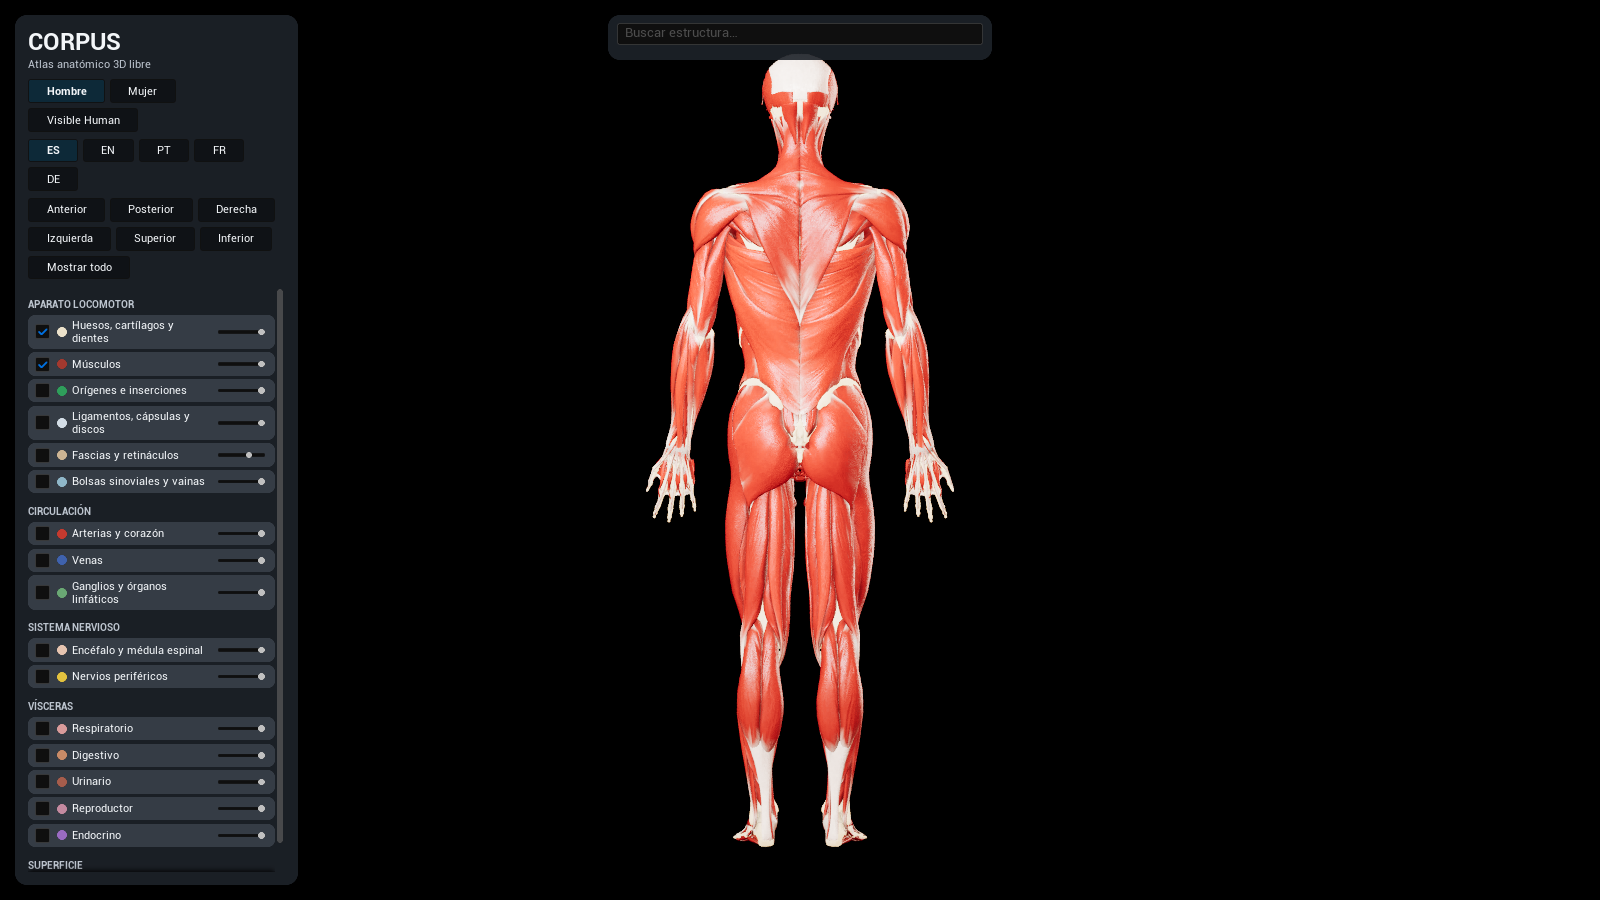
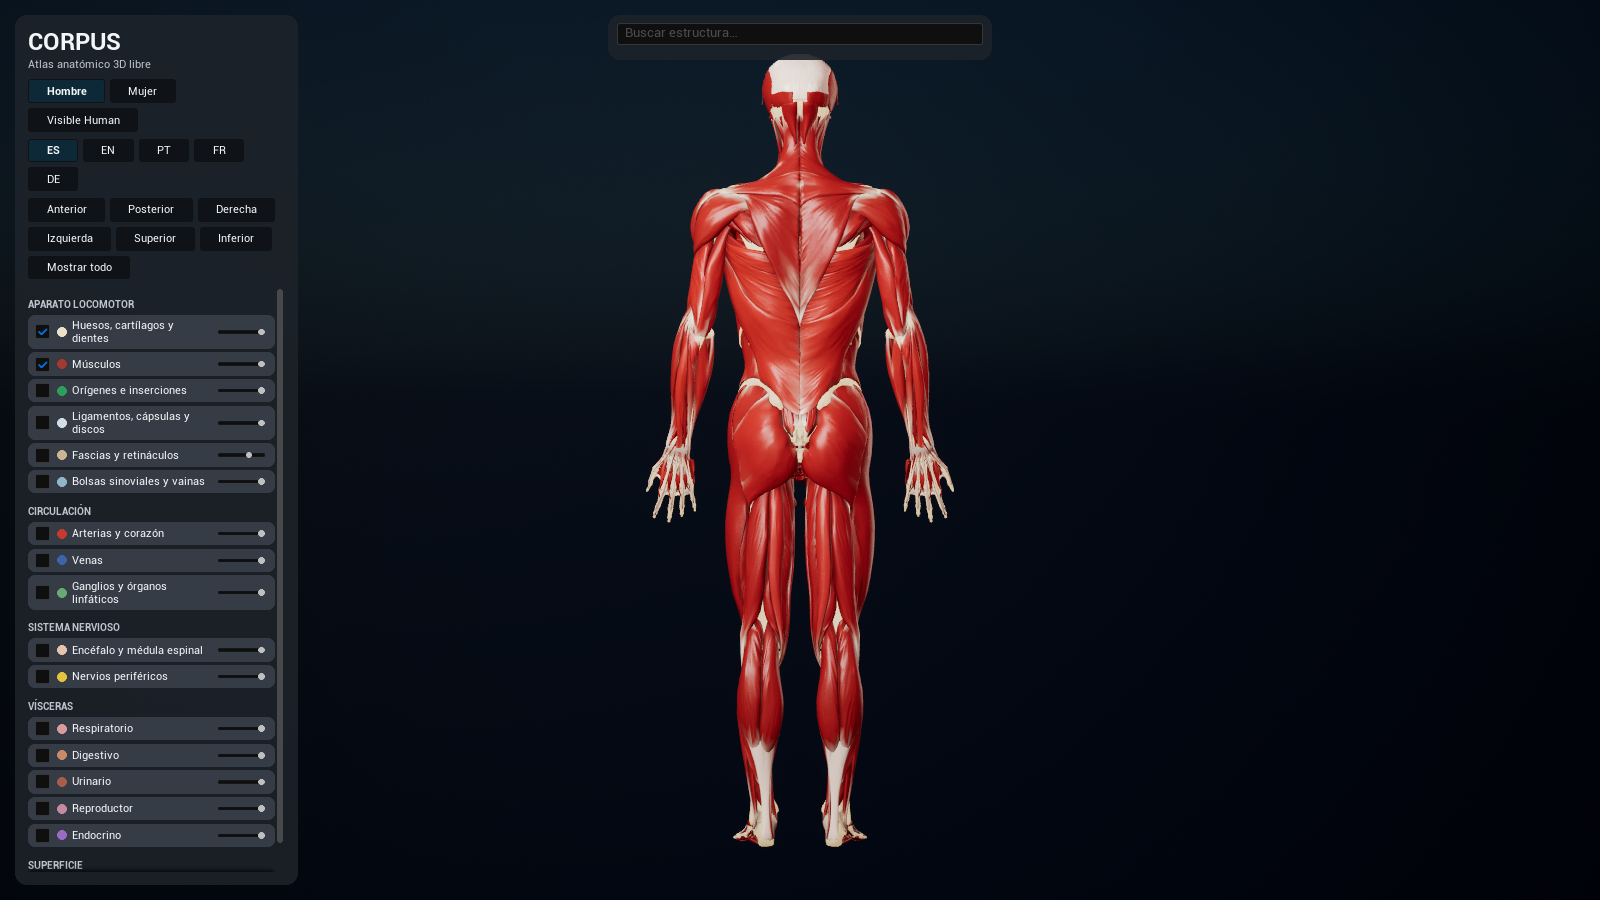
Unreal: pendientes de la Fase 1 (piel VH, traducciones, luz del hueso, muaré)
- Piel del Visible Human: Interchange llamaba «f_piel» a la única malla del
  archivo; _aplanar(destino, ids) le pone su id (f0) y ya se ve.
- Traducciones: el lector JSON de Unreal no distingue mayúsculas
  («urinario»→«digestivo» en i18n_de tapaba «Urinario»). T() usa claves
  exactas en el orden de trW() de la web, más una tabla propia para capas
  de vísceras, vistas, subtítulo, buscador y campos de la ficha.
- Luces: el sol (6 lux) no aportaba y las rectangulares quemaban el hueso.
  Tabla LUCES (sol 200, relleno 2000, contraluz 6000, cielo 1) y
  ajustar_luces(); captura.ps1 -Py para probar valores.
- Muaré: las estrías se apagan según los ciclos por píxel (ddx/ddy).
- Buscador: orígenes e inserciones al final de la lista.
- 12 capturas rehechas; LEEME al día.

diff --git a/unreal/CorpusAtlas/Content/Python/corpus_importar.py b/unreal/CorpusAtlas/Content/Python/corpus_importar.py
@@ -107,6 +107,10 @@ class _G:
         self.une(a, e, "A"); self.une(b, e, "B")
         return e
 
+    def un(self, clase, a, x=-400):
+        """Nodo de una sola entrada (Abs, Saturate, DDX…): su entrada no tiene nombre en 5.8."""
+        e = self.n(clase, x); self.une(a, e, ""); return e
+
     def mul(self, a, b): return self.op(unreal.MaterialExpressionMultiply, a, b)
     def add(self, a, b): return self.op(unreal.MaterialExpressionAdd, a, b)
 
@@ -168,7 +172,13 @@ def _maestro(nombre, translucido):
     s1 = g.n(unreal.MaterialExpressionSine, -400, period=1.0); g.une(fase, s1, "")
     f2 = g.mul(fase, g.cte(2.3))                                 # 3.7 producía muaré al acercarse
     s2 = g.n(unreal.MaterialExpressionSine, -400, period=1.0); g.une(f2, s2, "")
-    onda = g.add(s1, g.mul(s2, g.cte(0.35)))                     # fascículos gruesos + fibras finas
+    # Antimuaré: ciclos de estría por píxel (|ddx| + |ddy| de la fase). Cada escala se apaga entre 0,25 y 0,5 ciclos
+    # por píxel, antes de que el muestreo la convierta en franjas (a cuerpo entero hay >1 ciclo por píxel).
+    cpp = g.add(g.un(unreal.MaterialExpressionAbs, g.un(unreal.MaterialExpressionDDX, fase)),
+                g.un(unreal.MaterialExpressionAbs, g.un(unreal.MaterialExpressionDDY, fase)))
+    v1 = g.un(unreal.MaterialExpressionSaturate, g.add(g.cte(2.0), g.mul(cpp, g.cte(-4.0))))
+    v2 = g.un(unreal.MaterialExpressionSaturate, g.add(g.cte(2.0), g.mul(cpp, g.cte(-9.2))))
+    onda = g.add(g.mul(s1, v1), g.mul(g.mul(s2, v2), g.cte(0.35)))   # fascículos gruesos + fibras finas
 
     # Grano fino (poro del hueso, irregularidad del tejido): ruido 3D barato
     ruido = g.n(unreal.MaterialExpressionNoise, -400, scale=6.0, levels=2, output_min=-1.0, output_max=1.0)
@@ -208,7 +218,7 @@ def _maestro(nombre, translucido):
 
     # Relieve en espacio tangente: X = fibra, Y = a través. La pendiente de la onda inclina la normal en Y.
     c1 = g.n(unreal.MaterialExpressionCosine, -400, period=1.0); g.une(fase, c1, "")
-    pend = g.mul(g.mul(c1, fuerza), g.cte(0.22))                 # relieve suave: con 0.45 las estrías brillaban como rayas
+    pend = g.mul(g.mul(g.mul(c1, v1), fuerza), g.cte(0.22))                # relieve suave: con 0.45 las estrías brillaban como rayas
     pend = g.add(pend, g.mul(grano, g.cte(0.6)))
     normal = g.n(unreal.MaterialExpressionAppendVector, -300)
     xy = g.n(unreal.MaterialExpressionAppendVector, -350); g.une(g.mul(grano, g.cte(0.4)), xy, "A"); g.une(pend, xy, "B")
@@ -294,16 +304,31 @@ def _ajustar(malla, con_fibra):
         pass
 
 
-def _aplanar(destino):
-    """Interchange (UE 5.x) deja cada malla en <destino>/<archivo>/StaticMeshes/<id>; el C++ la busca en <destino>/<id>."""
+def _ids_capa(man, archivo):
+    """Ids de las piezas que el manifiesto pone en ese cuerpo y esa capa."""
+    c, s = archivo["cuerpo"], archivo["sistema"]
+    return [i for i, b in man["piezas"].items() if c in b and b[c].get("s") == s]
+
+
+def _aplanar(destino, ids=None):
+    """Interchange (UE 5.x) deja cada malla en <destino>/<archivo>/StaticMeshes/<id>; el C++ la busca en <destino>/<id>.
+    Con un archivo de una sola malla, Interchange la llama como el archivo (vh/f_piel → «f_piel» en vez de «f0»):
+    si se pasan los ids de la capa, la malla que no coincide con ninguno toma el único id que falta."""
     movidas = 0
+    ids = set(ids or [])
     for ruta in eal.list_assets(destino, recursive=True, include_folder=False):
         obj = eal.find_asset_data(ruta)
-        carpeta = str(obj.package_path)
-        if carpeta == destino:
+        if obj.asset_class_path.asset_name != "StaticMesh":
             continue
+        carpeta = str(obj.package_path)
         nombre = str(obj.asset_name)
-        if obj.asset_class_path.asset_name == "StaticMesh" and not eal.does_asset_exist("%s/%s" % (destino, nombre)):
+        if ids and nombre not in ids:
+            faltan = [i for i in ids if not eal.does_asset_exist("%s/%s" % (destino, i))]
+            if len(faltan) == 1:
+                nombre = faltan[0]
+        if carpeta == destino and nombre == str(obj.asset_name):
+            continue
+        if not eal.does_asset_exist("%s/%s" % (destino, nombre)):
             if eal.rename_asset(ruta.split(".")[0], "%s/%s" % (destino, nombre)):
                 movidas += 1
     for sub in eal.list_assets(destino, recursive=False, include_folder=True):
@@ -317,7 +342,7 @@ def aplanar_mallas():
     man = json.load(open(os.path.join(IMPORTAR, "manifiesto.json"), encoding="utf-8"))
     for a in man["archivos"]:
         destino = "%s/%s/%s" % (R_MALLAS, a["cuerpo"], a["sistema"])
-        n = _aplanar(destino)
+        n = _aplanar(destino, _ids_capa(man, a))
         unreal.log("Corpus: %s → %d mallas movidas a %s" % (a["archivo"], n, destino))
 
 
@@ -382,7 +407,7 @@ def importar_mallas(solo=None):
             t.set_editor_property("save", False)
             t.set_editor_property("options", _opciones_interchange())
             herr.import_asset_tasks([t])
-            _aplanar(destino)
+            _aplanar(destino, _ids_capa(man, a))
             con_fibra = a["base"] in FIBRA
             mi = eal.load_asset("%s/MI_%s" % (R_MAT, a["base"] if a["base"] in TEJIDOS else "digestivo"))
             n = 0
@@ -402,6 +427,10 @@ def importar_mallas(solo=None):
 # ───────────────────────── mapa ─────────────────────────
 # Compensación de exposición manual (pasos sobre la cámara física por defecto, EV100 ≈ 10).
 # 10.5 dejaba la imagen blanca: las luces del estudio dan ~1.000 lux, que piden EV ≈ 9.
+# Intensidades del estudio: sol en lux, rectangulares en candelas, cielo multiplicador. Con sol=6 el sol no aportaba
+# nada y las dos rectangulares (9000 / 14000) quemaban solas el hueso, sin sombreado (capturas de prueba 2026-11-20).
+# Ahora el sol es la luz principal y da el relieve; relleno y contraluz quedan suaves.
+LUCES = dict(sol=200.0, relleno=2000.0, contra=6000.0, cielo=1.0)
 EXPOSICION = 2.0   # comprobado en capturas: 1 queda oscuro, 4 quema los tendones, 2.5 aún satura el hueso
 
 
@@ -416,6 +445,19 @@ def ajustar_exposicion(valor=None):
             aj.set_editor_property("override_bloom_intensity", True)
             aj.set_editor_property("bloom_intensity", 0.08)
             a.set_editor_property("settings", aj)
+    unreal.get_editor_subsystem(unreal.LevelEditorSubsystem).save_current_level()
+
+
+def ajustar_luces(**cambios):
+    """Cambia la intensidad de las luces del mapa abierto (claves de LUCES) y lo guarda. Ej.: ajustar_luces(sol=40, relleno=2000)."""
+    LUCES.update(cambios)
+    etiquetas = {"Luz principal": ("sol", unreal.DirectionalLightComponent), "Luz de relleno": ("relleno", unreal.RectLightComponent),
+                 "Contraluz": ("contra", unreal.RectLightComponent), "Luz de cielo": ("cielo", unreal.SkyLightComponent)}
+    actores = unreal.get_editor_subsystem(unreal.EditorActorSubsystem)
+    for a in actores.get_all_level_actors():
+        e = etiquetas.get(a.get_actor_label())
+        if e:
+            a.get_component_by_class(e[1]).set_editor_property("intensity", float(LUCES[e[0]]))
     unreal.get_editor_subsystem(unreal.LevelEditorSubsystem).save_current_level()
 
 
@@ -435,22 +477,22 @@ def crear_mapa():
     # El cuerpo mira hacia +Y y mide ~175 cm de alto. Rotator(roll, pitch, yaw).
     clave = pon(unreal.DirectionalLight, rot=(0, -38, -125), nombre="Luz principal")
     c = clave.get_component_by_class(unreal.DirectionalLightComponent)
-    c.set_editor_property("intensity", 6.0); c.set_editor_property("light_color", unreal.Color(255, 244, 230))
+    c.set_editor_property("intensity", float(LUCES["sol"])); c.set_editor_property("light_color", unreal.Color(255, 244, 230))
     c.set_editor_property("light_source_angle", 3.0)    # sombras suaves de estudio
 
     relleno = pon(unreal.RectLight, pos=(-260, 240, 150), rot=(0, -8, -45), nombre="Luz de relleno")
     r = relleno.get_component_by_class(unreal.RectLightComponent)
-    r.set_editor_property("intensity", 9000.0); r.set_editor_property("source_width", 260.0); r.set_editor_property("source_height", 320.0)
+    r.set_editor_property("intensity", float(LUCES["relleno"])); r.set_editor_property("source_width", 260.0); r.set_editor_property("source_height", 320.0)
     r.set_editor_property("light_color", unreal.Color(214, 228, 255)); r.set_editor_property("attenuation_radius", 1200.0)
 
     contra = pon(unreal.RectLight, pos=(120, -280, 230), rot=(0, -25, 110), nombre="Contraluz")
     k = contra.get_component_by_class(unreal.RectLightComponent)
-    k.set_editor_property("intensity", 14000.0); k.set_editor_property("source_width", 200.0); k.set_editor_property("source_height", 200.0)
+    k.set_editor_property("intensity", float(LUCES["contra"])); k.set_editor_property("source_width", 200.0); k.set_editor_property("source_height", 200.0)
     k.set_editor_property("attenuation_radius", 1200.0)   # perfila el contorno de músculos y huesos
 
     cielo = pon(unreal.SkyLight, nombre="Luz de cielo")
     s = cielo.get_component_by_class(unreal.SkyLightComponent)
-    s.set_editor_property("real_time_capture", True); s.set_editor_property("intensity", 0.6)
+    s.set_editor_property("real_time_capture", True); s.set_editor_property("intensity", float(LUCES["cielo"]))
     pon(unreal.SkyAtmosphere, nombre="Atmósfera")
     pon(unreal.ExponentialHeightFog, pos=(0, 0, -50), nombre="Niebla")
 

diff --git a/unreal/CorpusAtlas/Source/CorpusAtlas/CorpusDatos.cpp b/unreal/CorpusAtlas/Source/CorpusAtlas/CorpusDatos.cpp
@@ -163,10 +163,61 @@ const FCorpusCapa* UCorpusDatos::Capa(const FString& Clave) const
 	return ListaCapas.FindByPredicate([&](const FCorpusCapa& C) { return C.Clave == Clave; });
 }
 
+namespace
+{
+	// El lector JSON de Unreal guarda las claves sin distinguir mayúsculas; aquí se leen tal cual vienen en el archivo.
+	void Volcar(const TSharedPtr<FJsonObject>& O, FTablaTr& T, bool bPisar)
+	{
+		if (!O.IsValid()) { return; }
+		for (const auto& Par : O->Values)
+		{
+			FString S;
+			if (!Par.Value.IsValid() || !Par.Value->TryGetString(S) || S.IsEmpty()) { continue; }
+			const FString K(Par.Key);
+			if (bPisar || !T.Contains(K)) { T.Add(K, S); }
+		}
+	}
+
+	// Textos propios de esta edición que no están en los JSON de la web: es → en, pt, fr, de.
+	struct FTrPropia { const TCHAR* Es; const TCHAR* L[4]; };
+	const FTrPropia TR_PROPIA[] = {
+		{TEXT("Respiratorio"), {TEXT("Respiratory"), TEXT("Respiratório"), TEXT("Respiratoire"), TEXT("Atmungssystem")}},
+		{TEXT("Digestivo"), {TEXT("Digestive"), TEXT("Digestório"), TEXT("Digestif"), TEXT("Verdauungssystem")}},
+		{TEXT("Urinario"), {TEXT("Urinary"), TEXT("Urinário"), TEXT("Urinaire"), TEXT("Harnsystem")}},
+		{TEXT("Reproductor"), {TEXT("Reproductive"), TEXT("Reprodutor"), TEXT("Reproducteur"), TEXT("Geschlechtsorgane")}},
+		{TEXT("Endocrino"), {TEXT("Endocrine"), TEXT("Endócrino"), TEXT("Endocrinien"), TEXT("Endokrines System")}},
+		{TEXT("Ojos"), {TEXT("Eyes"), TEXT("Olhos"), TEXT("Yeux"), TEXT("Augen")}},
+		{TEXT("Derecha"), {TEXT("Right"), TEXT("Direita"), TEXT("Droite"), TEXT("Rechts")}},
+		{TEXT("Izquierda"), {TEXT("Left"), TEXT("Esquerda"), TEXT("Gauche"), TEXT("Links")}},
+		{TEXT("izquierdo"), {TEXT("left"), TEXT("esquerdo"), TEXT("gauche"), TEXT("links")}},
+		{TEXT("Mostrar todo"), {TEXT("Show all"), TEXT("Mostrar tudo"), TEXT("Tout afficher"), TEXT("Alles zeigen")}},
+		{TEXT("Encuadrar"), {TEXT("Frame"), TEXT("Enquadrar"), TEXT("Cadrer"), TEXT("Einpassen")}},
+		{TEXT("Buscar estructura…"), {TEXT("Search structure…"), TEXT("Buscar estrutura…"), TEXT("Rechercher une structure…"), TEXT("Struktur suchen…")}},
+		{TEXT("Atlas anatómico 3D libre"), {TEXT("Free 3D anatomy atlas"), TEXT("Atlas anatômico 3D livre"), TEXT("Atlas d'anatomie 3D libre"), TEXT("Freier 3D-Anatomieatlas")}},
+		{TEXT("Sin resultados"), {TEXT("No results"), TEXT("Sem resultados"), TEXT("Aucun résultat"), TEXT("Keine Ergebnisse")}},
+		{TEXT("Descripción"), {TEXT("Description"), TEXT("Descrição"), TEXT("Description"), TEXT("Beschreibung")}},
+		{TEXT("Une"), {TEXT("Connects"), TEXT("Une"), TEXT("Relie"), TEXT("Verbindet")}},
+		{TEXT("Destino"), {TEXT("Destination"), TEXT("Destino"), TEXT("Destination"), TEXT("Ziel")}},
+		{TEXT("Ramas"), {TEXT("Branches"), TEXT("Ramos"), TEXT("Branches"), TEXT("Äste")}},
+		{TEXT("Territorio"), {TEXT("Territory"), TEXT("Território"), TEXT("Territoire"), TEXT("Versorgungsgebiet")}},
+		{TEXT("Clínica"), {TEXT("Clinical notes"), TEXT("Clínica"), TEXT("Clinique"), TEXT("Klinik")}},
+		{TEXT("Relaciones"), {TEXT("Relations"), TEXT("Relações"), TEXT("Rapports"), TEXT("Lagebeziehungen")}},
+	};
+
+	bool BuscarPropia(const FString& Idioma, const FString& Es, FString& Fuera)
+	{
+		static const TArray<FString> Orden = { TEXT("en"), TEXT("pt"), TEXT("fr"), TEXT("de") };
+		const int32 i = Orden.IndexOfByKey(Idioma);
+		if (i == INDEX_NONE) { return false; }
+		for (const FTrPropia& P : TR_PROPIA) { if (Es.Equals(P.Es, ESearchCase::CaseSensitive)) { Fuera = P.L[i]; return true; } }
+		return false;
+	}
+}
+
 void UCorpusDatos::CargarIdioma(const FString& Codigo)
 {
 	if (Codigo == TEXT("es") || UiTr.Contains(Codigo)) { return; }
-	TSharedPtr<FJsonObject> Ui = MakeShared<FJsonObject>(), Nombres = MakeShared<FJsonObject>();
+	FTablaTr Ui, Nombres;
 	const TSharedPtr<FJsonObject>* O = nullptr;
 	if (Codigo == TEXT("en") || Codigo == TEXT("pt"))
 	{
@@ -174,23 +225,22 @@ void UCorpusDatos::CargarIdioma(const FString& Codigo)
 		if (const TSharedPtr<FJsonObject> J = LeerObjeto(TEXT("i18n.json")))
 		{
 			const TSharedPtr<FJsonObject>* UiJ = nullptr;
-			if (J->TryGetObjectField(TEXT("ui"), UiJ) && (*UiJ)->TryGetObjectField(Codigo, O)) { Ui = *O; }
-			if (Codigo == TEXT("pt") && J->TryGetObjectField(TEXT("names"), O)) { Nombres = *O; }
+			if (J->TryGetObjectField(TEXT("ui"), UiJ) && (*UiJ)->TryGetObjectField(Codigo, O)) { Volcar(*O, Ui, true); UiAprox.Add(Codigo, *O); }
+			if (Codigo == TEXT("pt") && J->TryGetObjectField(TEXT("names"), O)) { Volcar(*O, Nombres, true); }
 		}
 	}
 	else if (const TSharedPtr<FJsonObject> J = LeerObjeto(FString::Printf(TEXT("i18n_%s.json"), *Codigo)))
 	{
-		if (J->TryGetObjectField(TEXT("ui"), O)) { Ui = *O; }
-		if (J->TryGetObjectField(TEXT("names"), O)) { Nombres = *O; }
+		if (J->TryGetObjectField(TEXT("ui"), O)) { Volcar(*O, Ui, true); UiAprox.Add(Codigo, *O); }
+		if (J->TryGetObjectField(TEXT("names"), O)) { Volcar(*O, Nombres, true); }
 		// content_fr/de: textos largos (español → traducción); no pisan la interfaz
-		if (const TSharedPtr<FJsonObject> Cont = LeerObjeto(FString::Printf(TEXT("content_%s.json"), *Codigo)))
-		{
-			for (const auto& Par : Cont->Values) { if (!Ui->HasField(Par.Key)) { Ui->SetField(Par.Key, Par.Value); } }
-		}
+		Volcar(LeerObjeto(FString::Printf(TEXT("content_%s.json"), *Codigo)), Ui, false);
 	}
-	UiTr.Add(Codigo, Ui);
-	NombresTr.Add(Codigo, Nombres);
+	UiTr.Add(Codigo, MoveTemp(Ui));
+	NombresTr.Add(Codigo, MoveTemp(Nombres));
 	if (const TSharedPtr<FJsonObject> Info = LeerObjeto(FString::Printf(TEXT("info_%s.json"), *Codigo))) { InfoTr.Add(Codigo, Info); }
+	// francés y alemán caen en inglés si falta el texto
+	if (Codigo == TEXT("fr") || Codigo == TEXT("de")) { CargarIdioma(TEXT("en")); }
 }
 
 void UCorpusDatos::PonerIdioma(const FString& Codigo)
@@ -204,16 +254,17 @@ void UCorpusDatos::PonerIdioma(const FString& Codigo)
 
 FString UCorpusDatos::T(const FString& Es) const
 {
-	if (IdiomaActual != TEXT("es"))
-	{
-		FString Tr;
-		if (const TSharedPtr<FJsonObject>* Ui = UiTr.Find(IdiomaActual)) { if ((*Ui)->TryGetStringField(Es, Tr) && !Tr.IsEmpty()) { return Tr; } }
-		// francés y alemán caen en inglés si falta el texto (igual que la web)
-		if (IdiomaActual == TEXT("fr") || IdiomaActual == TEXT("de"))
-		{
-			if (const TSharedPtr<FJsonObject>* En = UiTr.Find(TEXT("en"))) { if ((*En)->TryGetStringField(Es, Tr) && !Tr.IsEmpty()) { return Tr; } }
-		}
-	}
+	if (IdiomaActual == TEXT("es")) { return Es; }
+	// Mismo orden que trW() en la web: interfaz → (fr/de) nombres → textos propios → (fr/de) inglés.
+	// Antes del inglés, la interfaz sin distinguir mayúsculas: el lector JSON de Unreal funde «Hombre» y «hombre»
+	// en una sola clave (la última), así que la búsqueda exacta puede no encontrar «Hombre».
+	const bool bFrDe = IdiomaActual == TEXT("fr") || IdiomaActual == TEXT("de");
+	if (const FTablaTr* Ui = UiTr.Find(IdiomaActual)) { if (const FString* S = Ui->Find(Es)) { return *S; } }
+	if (bFrDe) { if (const FTablaTr* N = NombresTr.Find(IdiomaActual)) { if (const FString* S = N->Find(Es)) { return *S; } } }
+	FString Tr;
+	if (BuscarPropia(IdiomaActual, Es, Tr)) { return Tr; }
+	if (const TSharedPtr<FJsonObject>* A = UiAprox.Find(IdiomaActual)) { if ((*A)->TryGetStringField(Es, Tr) && !Tr.IsEmpty()) { return Tr; } }
+	if (bFrDe) { if (const FTablaTr* En = UiTr.Find(TEXT("en"))) { if (const FString* S = En->Find(Es)) { return *S; } } }
 	return Es;
 }
 
@@ -223,8 +274,7 @@ FString UCorpusDatos::NombrePieza(const FString& Id) const
 	if (!P) { return Id; }
 	if (IdiomaActual == TEXT("es")) { return P->Es; }
 	if (IdiomaActual == TEXT("en")) { return P->En; }
-	FString Tr;
-	if (const TSharedPtr<FJsonObject>* N = NombresTr.Find(IdiomaActual)) { if ((*N)->TryGetStringField(P->Es, Tr) && !Tr.IsEmpty()) { return Tr; } }
+	if (const FTablaTr* N = NombresTr.Find(IdiomaActual)) { if (const FString* S = N->Find(P->Es)) { return *S; } }
 	return IdiomaActual == TEXT("pt") ? P->Es : P->En;
 }
 
@@ -290,7 +340,9 @@ FString UCorpusDatos::Plano(const FString& S)
 
 TArray<FString> UCorpusDatos::Buscar(const FString& Texto, int32 Maximo) const
 {
-	TArray<FString> Empiezan, Contienen;
+	// Orden: empieza por el texto → lo contiene → orígenes e inserciones (llevan el mismo nombre que el músculo
+	// y antes tapaban al propio músculo en la lista)
+	TArray<FString> Empiezan, Contienen, Inserciones;
 	const FString Q = Plano(Texto.TrimStartAndEnd());
 	if (Q.Len() < 2) { return Empiezan; }
 	for (const auto& Par : Piezas)
@@ -298,11 +350,12 @@ TArray<FString> UCorpusDatos::Buscar(const FString& Texto, int32 Maximo) const
 		const FCorpusPieza& P = Par.Value;
 		if (P.Mallas.Num() == 0) { continue; }
 		const FString N = Plano(NombrePieza(P.Id));
-		if (N.StartsWith(Q)) { Empiezan.Add(P.Id); }
-		else if (N.Contains(Q) || Plano(P.Es).Contains(Q) || Plano(P.En).Contains(Q) || Plano(P.La).Contains(Q)) { Contienen.Add(P.Id); }
-		if (Empiezan.Num() >= Maximo) { break; }
+		const bool bEmpieza = N.StartsWith(Q);
+		if (!bEmpieza && !(N.Contains(Q) || Plano(P.Es).Contains(Q) || Plano(P.En).Contains(Q) || Plano(P.La).Contains(Q))) { continue; }
+		(P.Sistema == TEXT("insercion") ? Inserciones : bEmpieza ? Empiezan : Contienen).Add(P.Id);
 	}
 	Empiezan.Append(Contienen);
+	Empiezan.Append(Inserciones);
 	if (Empiezan.Num() > Maximo) { Empiezan.SetNum(Maximo); }
 	return Empiezan;
 }

diff --git a/unreal/CorpusAtlas/Source/CorpusAtlas/CorpusDatos.h b/unreal/CorpusAtlas/Source/CorpusAtlas/CorpusDatos.h
@@ -50,6 +50,14 @@ struct FCorpusCapa
 	UPROPERTY(BlueprintReadOnly, Category = "Corpus") FString Base;
 };
 
+/** Claves que distinguen mayúsculas (como los objetos de JavaScript): en i18n_de, «urinario» y «Urinario» son textos distintos. */
+struct FClaveExacta : TDefaultMapKeyFuncs<FString, FString, false>
+{
+	static FORCEINLINE bool Matches(const FString& A, const FString& B) { return A.Equals(B, ESearchCase::CaseSensitive); }
+	static FORCEINLINE uint32 GetKeyHash(const FString& K) { return GetTypeHash(K); }
+};
+using FTablaTr = TMap<FString, FString, FDefaultSetAllocator, FClaveExacta>;
+
 UCLASS()
 class CORPUSATLAS_API UCorpusDatos : public UGameInstanceSubsystem
 {
@@ -99,5 +107,6 @@ private:
 
 	TSharedPtr<FJsonObject> InfoEs;                       // info.json: tipo → nombre inglés → ficha
 	TMap<FString, TSharedPtr<FJsonObject>> InfoTr;       // info_en/pt/fr/de: «tipo|nombre» → ficha
-	TMap<FString, TSharedPtr<FJsonObject>> UiTr, NombresTr; // por idioma: texto español → traducción
+	TMap<FString, FTablaTr> UiTr, NombresTr;              // por idioma: texto español → traducción
+	TMap<FString, TSharedPtr<FJsonObject>> UiAprox;       // el «ui» tal cual lo lee Unreal (sin distinguir mayúsculas): último recurso
 };

diff --git a/unreal/LEEME.md b/unreal/LEEME.md
@@ -60,19 +60,31 @@ todo sale gris), ejecuta los pasos y cierra. Desde PowerShell:
 ```
 .\unreal\captura.ps1 -Pasos "esperar 8; foto inicio; sel n1394; encuadrar; foto ficha; buscar biceps; foto buscador"
 .\unreal\captura.ps1 -Exposicion 2.0 -Pasos "foto expo"
+.\unreal\captura.ps1 -Py "ci.ajustar_luces(sol=200, relleno=2000)" -Pasos "foto luces"
 ```
 Pasos: `foto <nombre>` · `sel <id>` (vacío = ninguna) · `encuadrar` · `aislar` · `ocultar` · `todo` · `vista <0-5>` ·
 `capa <clave> <0|1>` · `opacidad <clave> <valor>` · `cuerpo <hombre|mujer|vh>` · `idioma <es|en|pt|fr|de>` ·
 `buscar <texto>` · `esperar <s>` · cualquier otro texto se ejecuta como comando de consola (p. ej. `viewmode unlit`).
 Las fotos quedan en `unreal/capturas/` con la interfaz incluida.
 
+### Pendientes de la Fase 1 resueltos (2026-11-20)
+- **Piel del Visible Human:** el GLB `vh/f_piel` tiene una sola malla e Interchange la llamaba como el archivo (`f_piel`) en vez de
+  con su id (`f0`), así que el C++ no la encontraba. `_aplanar(destino, ids)` renombra la malla que no coincide con ningún id de la capa.
+- **Traducciones:** el lector JSON de Unreal no distingue mayúsculas en las claves; en `i18n_de.json` hay `"urinario": "digestivo"`,
+  por eso «Urinario» salía como «digestivo», y «Hombre»/«hombre» se fundían. `T()` busca ahora como `trW()` de la web, con claves exactas
+  (`FTablaTr`): interfaz → nombres (fr/de) → tabla propia `TR_PROPIA` (capas de vísceras, vistas, subtítulo, buscador, campos de la ficha)
+  → interfaz sin distinguir mayúsculas → inglés.
+- **Hueso quemado:** con el sol a 6 lux solo iluminaban las dos rectangulares (9000 / 14000), planas y fortísimas. Tabla `LUCES`
+  (sol 200 lux como luz principal, relleno 2000, contraluz 6000, cielo 1,0) y `ajustar_luces()` para cambiarlas sin rehacer el mapa.
+- **Muaré:** a cuerpo entero había más de un ciclo de estría por píxel. Cada escala se apaga con `|ddx|+|ddy|` de la fase
+  entre 0,25 y 0,5 ciclos por píxel.
+- **Buscador:** los orígenes e inserciones (mismo nombre que el músculo) van al final de la lista.
+- `captura.ps1 -Py "ci.ajustar_luces(sol=…)"` ejecuta Python sobre el mapa antes de jugar.
+
 ## Pendiente de la Fase 1
-- **Piel del Visible Human** (`f_piel`, una sola malla): no se ve ni opaca ni translúcida; la piel del hombre sí. Revisar esa malla (escala, normales o Nanite).
-- **Traducciones de la interfaz Unreal:** vistas («Anterior»…), subtítulo y texto del buscador siguen en español; en alemán las capas de vísceras
-  salen sin traducir y «Urinario» aparece como «digestivo» (búsqueda aproximada de `T()`).
-- Hueso todavía muy claro de frente con la luz principal; afinar con `ALBEDO`/luces mirando capturas.
-- Muaré leve de las estrías al acercarse mucho a un músculo (`EscalaFibra`, factor 2,3).
 - Probar con el ratón real (clic, doble clic, arrastrar) y los atajos H, I, F, 1–6: las capturas usan las mismas funciones, pero no el ratón.
+- Al encuadrar una pieza pequeña (p. ej. un músculo del ojo) la cámara queda muy cerca; y cambiar de cuerpo no reencuadra.
+- La piel del Visible Human opaca sale algo anaranjada; afinar su tinte si hace falta.
 
 ## Pendiente de pasar desde la web (por fases)
 1. **Atlas:** membranas y piezas semitransparentes, etiquetas y pines, relieves óseos,
